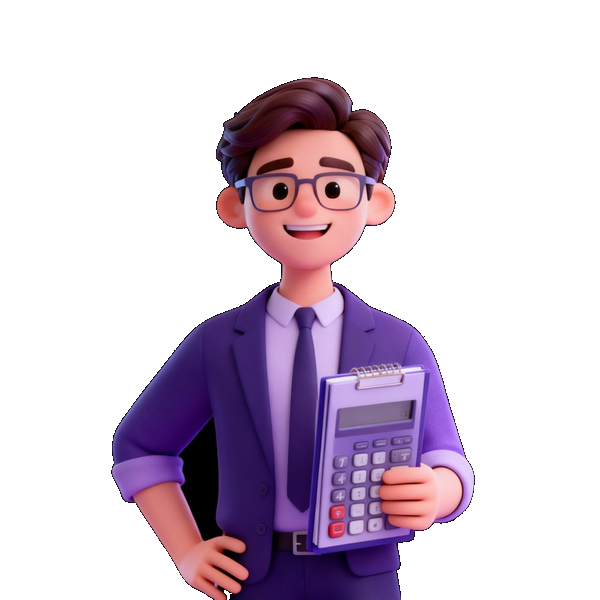
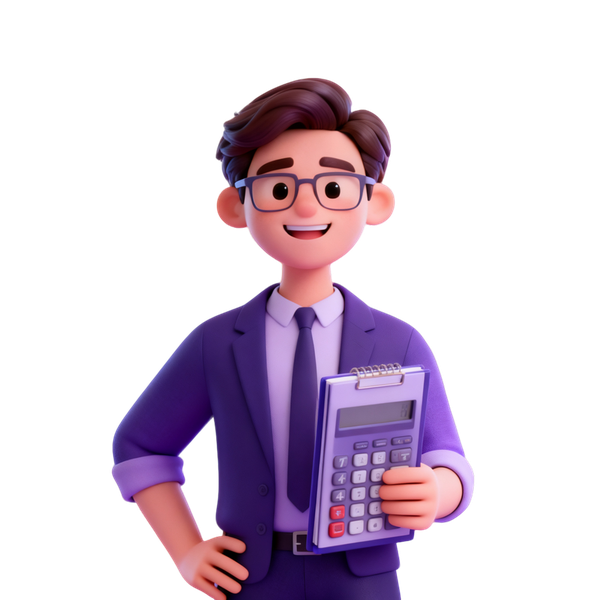
Add files via upload

diff --git a/HTML2/solution-ceoplan.html b/HTML2/solution-ceoplan.html
@@ -234,7 +234,7 @@ button { font-family: inherit; cursor: pointer; border: none; background: none; 
   font-weight: 800; 
   color: var(--text-strong); 
   line-height: 1.1; 
-  letter-spacing: -2.4px; 
+  letter-spacing: -1.2px; 
   margin-bottom: 28px;
 }
 .hero h1 strong { color: var(--blue); font-weight: 800; }
@@ -1063,7 +1063,7 @@ button { font-family: inherit; cursor: pointer; border: none; background: none; 
 /* ━━━━ MOBILE ━━━━ */
 @media (max-width: 768px) {
   .hero { padding: 64px 0 56px; }
-  .hero h1 { font-size: 38px; line-height: 1.2; letter-spacing: -1.2px; }
+  .hero h1 { font-size: 38px; line-height: 1.2; letter-spacing: -0.6px; }
   .hero-sub { font-size: 16px; }
   .h2-large, .zigzag-text h2 { font-size: 30px; line-height: 1.25; letter-spacing: -1px; }
   .h3-medium, .stats-head h2, .cta-form-head h2, .final-cta h2 { font-size: 26px; }
@@ -1774,7 +1774,7 @@ button { font-family: inherit; cursor: pointer; border: none; background: none; 
 <div class="toast" id="toast"></div>
 
 <script>
-console.log('미래CEO플랜 - solution-ceoplan.html v9.1 (이미지 path 수정 - 같은 폴더) loaded');
+console.log('미래CEO플랜 - solution-ceoplan.html v9.5 (HERO h1 자간 조정) loaded');
 
 function toggleFaq(btn) {
   const item = btn.parentElement;